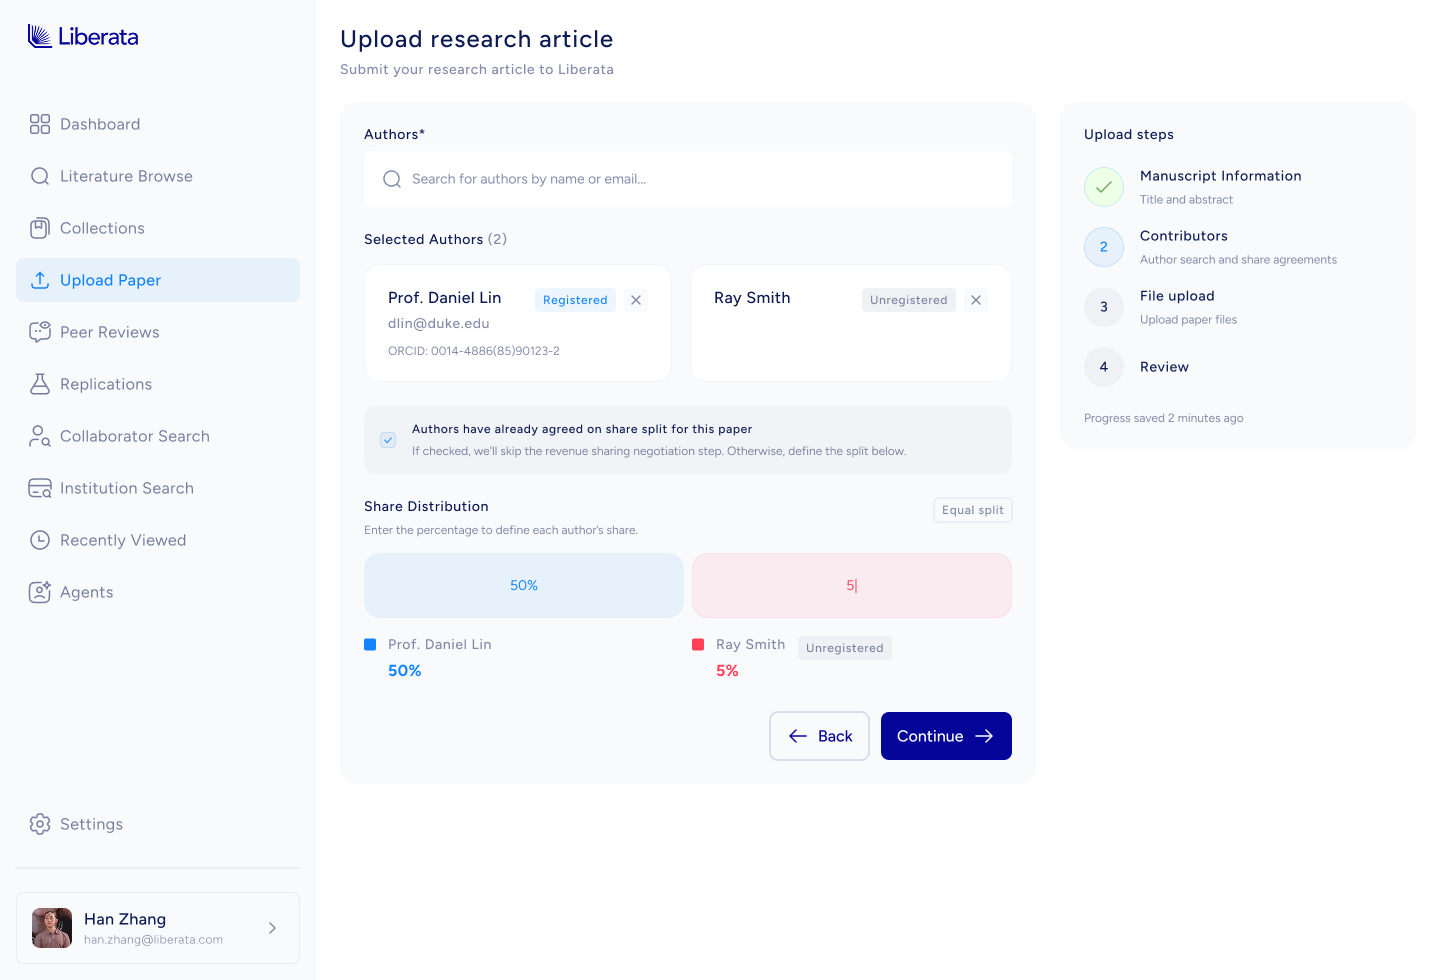
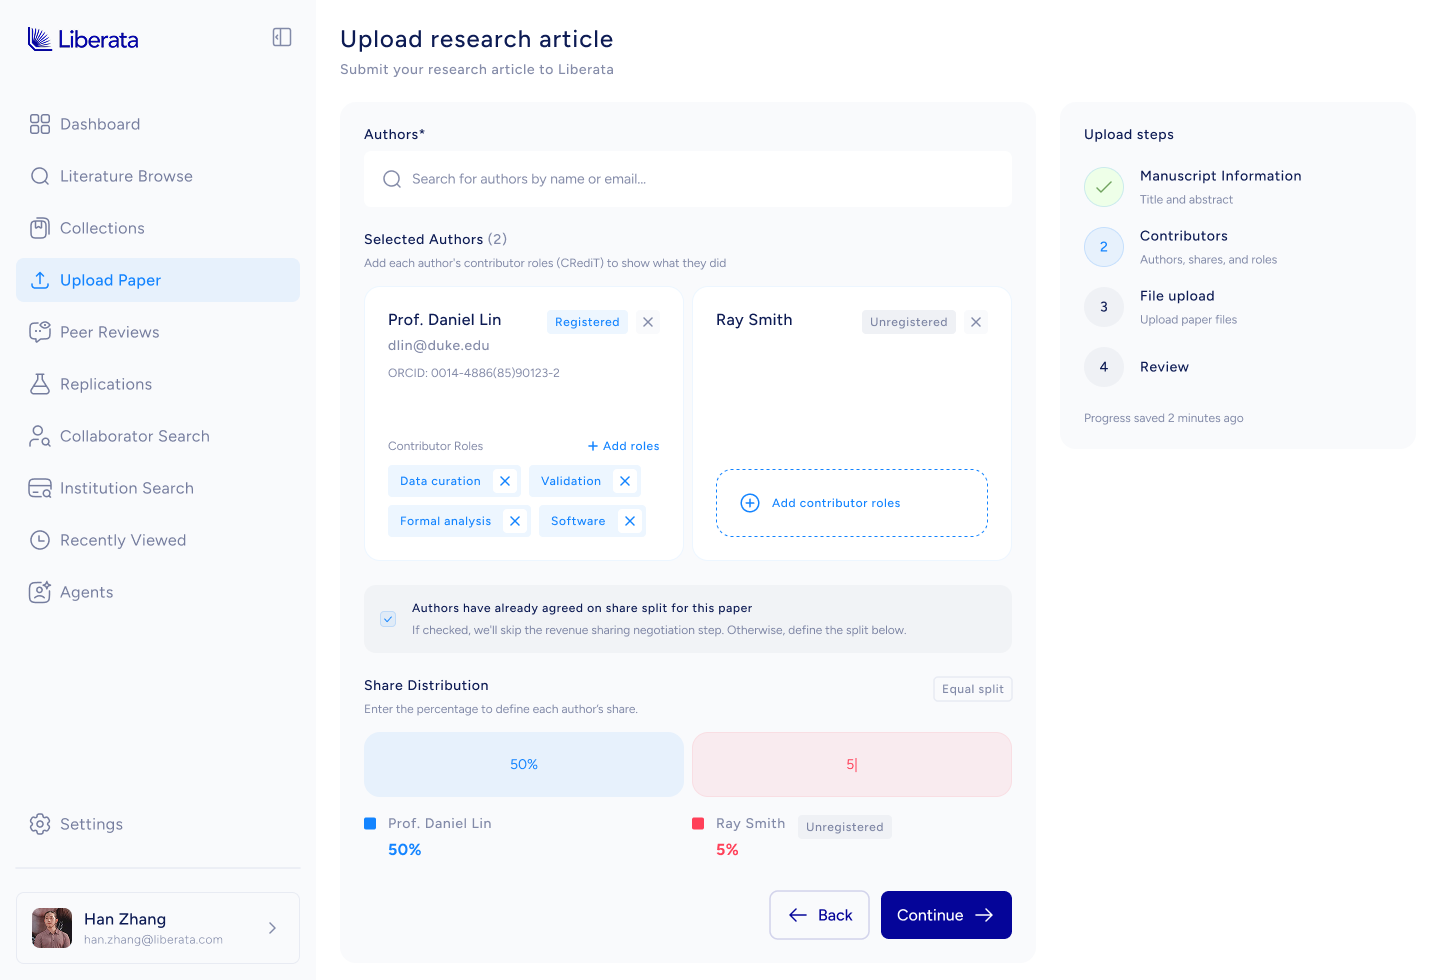
feat(scriptura): update literature browse carousel (#33)

diff --git a/src/components/ScripturaFeatures.tsx b/src/components/ScripturaFeatures.tsx
@@ -5,9 +5,10 @@ import iconCollection from "../images/figma/scriptura/icons/icon_collection.svg"
 import iconUserSearch from "../images/figma/scriptura/icons/icon_user_search.svg";
 import iconInstitutionSearch from "../images/figma/scriptura/icons/icon_institution_search.svg";
 
-// Literature Browse (the "Preprints & Papers" card) — search results plus the
-// 3-step upload flow
+// Literature Browse (the "Preprints & Papers" card) — search results, the
+// paper view with its PDF, then the 3-step upload flow
 import demoLitSearchResults from "../images/figma/scriptura/demo_preprints_1.png";
+import demoLitPaperViewerPdf from "../images/figma/scriptura/demo_paper_viewer_pdf.png";
 import demoLitStep1 from "../images/figma/scriptura/demo_preprints_2.png";
 import demoLitStep2 from "../images/figma/scriptura/demo_preprints_3.png";
 import demoLitStep3 from "../images/figma/scriptura/demo_preprints_4.png";
@@ -61,8 +62,8 @@ const FEATURES: ShowcaseFeature[] = [
     gridDesc: "Host, version, and cite your work with DOI-linked records. Diamond open access by default",
     altDesc: "Host, version, and cite your work with DOI-linked records. Diamond open access by default",
     label: "Preprints and Articles",
-    demo: [demoLitSearchResults, demoLitStep1, demoLitStep2, demoLitStep3],
-    demoAlt: "Scriptura walkthrough: browsing articles, filtering, saving to a collection, and the upload flow",
+    demo: [demoLitSearchResults, demoLitPaperViewerPdf, demoLitStep1, demoLitStep2, demoLitStep3],
+    demoAlt: "Scriptura walkthrough: browsing articles, viewing an article and its PDF, and the upload flow",
     headline: "Own your work",
     longDesc:
       "Post a preprint the moment it's ready, attach your data and code, and get a citable, DOI-linked record.",
